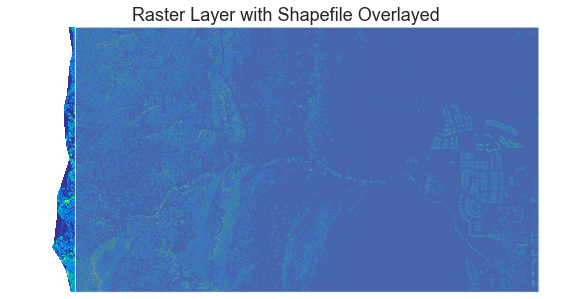
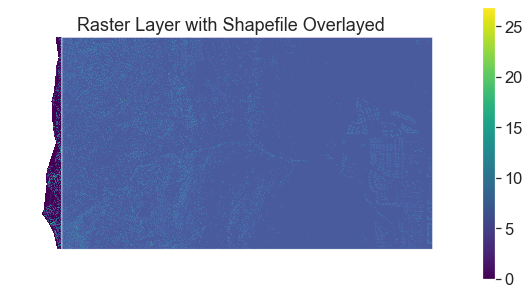
clip lesson with xarray

diff --git a/_posts/courses/intermediate-eds-textbook/03-intro-raster/raster-processing-python/2018-02-05-raster04-crop-raster.md b/_posts/courses/intermediate-eds-textbook/03-intro-raster/raster-processing-python/2018-02-05-raster04-crop-raster.md
@@ -4,7 +4,7 @@ title: "Crop Spatial Raster Data With a Shapefile in Python"
 excerpt: "Sometimes a raster dataset covers a larger spatial extent than is needed for a particular purpose. In these cases, you can crop a raster file to a smaller extent. Learn how to crop raster data using a shapefile and export it as a new raster in open source Python"
 authors: ['Leah Wasser']
 dateCreated: 2018-02-05
-modified: 2020-09-11
+modified: 2020-11-05
 category: [courses]
 class-lesson: ['raster-processing-python']
 permalink: /courses/use-data-open-source-python/intro-raster-data-python/raster-data-processing/crop-raster-data-with-shapefile-in-python/
@@ -68,12 +68,11 @@ import matplotlib.pyplot as plt
 import seaborn as sns
 import numpy as np
 from shapely.geometry import mapping
+import rioxarray as rxr
+import xarray as xr
 import geopandas as gpd
-import rasterio as rio
-from rasterio.plot import plotting_extent
-from rasterio.mask import mask
+
 import earthpy as et
-import earthpy.spatial as es
 import earthpy.plot as ep
 
 # Prettier plotting with seaborn
@@ -81,12 +80,14 @@ sns.set(font_scale=1.5)
 
 # Get data and set working directory
 et.data.get_data("colorado-flood")
-os.chdir(os.path.join(et.io.HOME, 'earth-analytics'))
+os.chdir(os.path.join(et.io.HOME,
+                      'earth-analytics',
+                      'data'))
 ```
 
 {:.output}
-    /opt/conda/lib/python3.8/site-packages/rasterio/plot.py:260: SyntaxWarning: "is" with a literal. Did you mean "=="?
-      if len(arr.shape) is 2:
+    Downloading from https://ndownloader.figshare.com/files/16371473
+    Extracted output to /root/earth-analytics/data/colorado-flood/.
 
 
 
@@ -95,6 +96,18 @@ os.chdir(os.path.join(et.io.HOME, 'earth-analytics'))
 
 In the previous lessons, you worked with a raster layer that looked like the one below. Notice that the data have an uneven edge on the left hand side. Let's pretend this edge is outside of your study area and you'd like to remove it or clip it off using your study area extent. You can do this using the `crop_image()` function in `earthpy.spatial`. 
 
+{:.input}
+```python
+lidar_chm_im = rxr.open_rasterio("colorado-flood/spatial/boulder-leehill-rd/outputs/lidar_chm.tif",
+                                 masked=True).squeeze()
+
+f, ax = plt.subplots(figsize=(10, 5))
+lidar_chm_im.plot.imshow()
+ax.set(title="Lidar Canopy Height Model (CHM)")
+
+ax.set_axis_off()
+plt.show()
+```
 
 {:.output}
 {:.display_data}
@@ -118,8 +131,10 @@ from geopandas. You will learn more about vector data in Python in a few weeks.
 
 {:.input}
 ```python
-aoi = os.path.join("data", "colorado-flood", "spatial",
-                   "boulder-leehill-rd", "clip-extent.shp")
+aoi = os.path.join("colorado-flood",
+                   "spatial",
+                   "boulder-leehill-rd",
+                   "clip-extent.shp")
 
 # Open crop extent (your study area extent boundary)
 crop_extent = gpd.read_file(aoi)
@@ -132,7 +147,7 @@ they will need to be in the same CRS.
 {:.input}
 ```python
 print('crop extent crs: ', crop_extent.crs)
-print('lidar crs: ', lidar_chm.crs)
+print('lidar crs: ', lidar_chm_im.rio.crs)
 ```
 
 {:.output}
@@ -153,25 +168,15 @@ crop_extent.plot(ax=ax)
 
 ax.set_title("Shapefile Crop Extent",
              fontsize=16)
+plt.show()
 ```
-
-{:.output}
-{:.execute_result}
-
-
-
-    Text(0.5, 1.0, 'Shapefile Crop Extent')
-
-
-
-
 
 {:.output}
 {:.display_data}
 
 <figure>
 
-<img src = "{{ site.url }}/images/courses/intermediate-eds-textbook/03-intro-raster/raster-processing-python/2018-02-05-raster04-crop-raster/2018-02-05-raster04-crop-raster_12_1.png" alt = "Plot of the shapefile that you will use to crop the CHM data.">
+<img src = "{{ site.url }}/images/courses/intermediate-eds-textbook/03-intro-raster/raster-processing-python/2018-02-05-raster04-crop-raster/2018-02-05-raster04-crop-raster_12_0.png" alt = "Plot of the shapefile that you will use to crop the CHM data.">
 <figcaption>Plot of the shapefile that you will use to crop the CHM data.</figcaption>
 
 </figure>
@@ -192,17 +197,15 @@ Now that you have imported the shapefile. You can use the `crop_image` function 
 
 {:.input}
 ```python
-fig, ax = plt.subplots(figsize=(10, 8))
+f, ax = plt.subplots(figsize=(10, 5))
+lidar_chm_im.plot.imshow(ax=ax)
 
-ep.plot_bands(lidar_chm_im, cmap='terrain',
-              extent=plotting_extent(lidar_chm),
-              ax=ax,
-              title="Raster Layer with Shapefile Overlayed",
-              cbar=False)
-
-crop_extent.plot(ax=ax, alpha=.8)
+crop_extent.plot(ax=ax,
+                 alpha=.8)
+ax.set(title="Raster Layer with Shapefile Overlayed")
 
 ax.set_axis_off()
+plt.show()
 ```
 
 {:.output}
@@ -218,44 +221,38 @@ ax.set_axis_off()
 
 
 
+## Clip Raster Data Using RioXarray `.clip`
+
+If you want to crop the data you can use the `rio.clip` function. When you clip
+the data, you can then export it and share it with colleagues. Or use it in 
+another analysis. 
 
 
-## Crop Data Using the `crop_image` Function
+To perform the clip you:
 
-If you want to crop the data you can use the `crop_image` function in `earthpy.spatial`. When you crop the data, you can then export it and share it with colleagues. Or use it in another analysis. IMPORTANT: You do not need to read the data in before cropping! Cropping the data can be your first step.
+1. Open the raster dataset that you wish to crop using xarray or rioxarray.
+2. Open your shapefile as a geopandas object.
+3. Crop the data using the `.clip()` function. 
 
-To perform the crop you:
+`.clip` has several parameters that you can consider including
 
-1. Create a connection to the raster dataset that you wish to crop
-2. Open your shapefile as a geopandas object. This is what EarthPy needs to crop the data to the extent of your vector shapefile.
-3. Crop the data using the `crop_image()` function. 
+* `drop = True` : The default. setting it will drop all pixels outside of the clip extent
+* `invert = False` : The default. If set to true it will clip all data INSIDE of the clip extent
+* `crs` : if your shapefile is in a different CRS than the raster data, pass the CRS to ensure the data are clipped correctly. 
 
-Without EarthPy, you would have to perform this with a Geojson object. Geojson is a format that is worth becoming familiar with. It's a text, structured format that is used in many online applications. We will discuss it in  more detail later in the class. For now, have a look at the output below. 
-
-{:.input}
-```python
-lidar_chm_path = os.path.join("data", "colorado-flood", "spatial",
-                              "boulder-leehill-rd", "outputs", "lidar_chm.tif")
-
-with rio.open(lidar_chm_path) as lidar_chm:
-    lidar_chm_crop, lidar_chm_crop_meta = es.crop_image(lidar_chm,crop_extent)
-
-lidar_chm_crop_affine = lidar_chm_crop_meta["transform"]
-
-# Create spatial plotting extent for the cropped layer
-lidar_chm_extent = plotting_extent(lidar_chm_crop[0], lidar_chm_crop_affine)
-```
-
-Finally, plot the cropped data. Does it look correct?
+Below you clip the data to the extent of the AOI geodataframe imported above. 
+The data are then plotted.
 
 {:.input}
 ```python
-# Plot your data
-ep.plot_bands(lidar_chm_crop[0],
-              extent=lidar_chm_extent,
-              cmap='Greys',
-              title="Cropped Raster Dataset",
-              scale=False)
+lidar_clipped = lidar_chm_im.rio.clip(crop_extent.geometry.apply(mapping),
+                                      # This is needed if your GDF is in a diff CRS than the raster data
+                                      crop_extent.crs)
+
+f, ax = plt.subplots(figsize=(10, 4))
+lidar_clipped.plot(ax=ax)
+ax.set(title="Raster Layer Cropped to Geodataframe Extent")
+ax.set_axis_off()
 plt.show()
 ```
 
@@ -264,7 +261,7 @@ plt.show()
 
 <figure>
 
-<img src = "{{ site.url }}/images/courses/intermediate-eds-textbook/03-intro-raster/raster-processing-python/2018-02-05-raster04-crop-raster/2018-02-05-raster04-crop-raster_20_0.png" alt = "Final cropped canopy height model plot.">
+<img src = "{{ site.url }}/images/courses/intermediate-eds-textbook/03-intro-raster/raster-processing-python/2018-02-05-raster04-crop-raster/2018-02-05-raster04-crop-raster_16_0.png" alt = "Final cropped canopy height model plot.">
 <figcaption>Final cropped canopy height model plot.</figcaption>
 
 </figure>
@@ -272,52 +269,64 @@ plt.show()
 
 
 
+
+
+
+
+
+
+
+
 <div class="notice--info" markdown="1">
 ## OPTIONAL -- Export Newly Cropped Raster
 
-Once you have cropped your data, you may want to export it. 
-In the subtract rasters lesson you exported a raster that had the same shape and transformation information as the parent rasters. However in this case, you have cropped your data. You will have to update several things to ensure your data export properly:
+Once you have cropped your data, you may want to export it to a new geotiff file,
+just like you did in previous lessons. 
 
-1. The width and height of the raster: You can get this information from the **shape** of the cropped numpy array and
-2. The transformation information of the affine object. The `crop_image()` function provides this inside the metadata object it returns!
-3. Finally you may want to update the `nodata` value.
+You can so this using rioxarray too!
 
-In this case you don't have any `nodata` values in your raster. However you may have them in a future raster!
 </div>
 
 {:.input}
 ```python
-# Update with the new cropped affine info and the new width and height
-lidar_chm_meta.update({'transform': lidar_chm_crop_affine,
-                       'height': lidar_chm_crop.shape[1],
-                       'width': lidar_chm_crop.shape[2],
-                       'nodata': -999.99})
-lidar_chm_meta
+path_to_tif_file = os.path.join("colorado-flood",
+                                "spatial",
+                                "outputs",
+                                "lidar_chm_cropped.tif")
+
+# Write the data to a new geotiff file
+lidar_clipped.rio.to_raster(path_to_tif_file)
 ```
-
-{:.output}
-{:.execute_result}
-
-
-
-    {'driver': 'GTiff', 'dtype': 'float64', 'nodata': -999.99, 'width': 3490, 'height': 2000, 'count': 1, 'crs': CRS.from_epsg(32613), 'transform': Affine(1.0, 0.0, 472510.0,
-           0.0, -1.0, 4436000.0), 'tiled': False, 'compress': 'lzw', 'interleave': 'band'}
-
-
-
-
-
-Once you have updated the metadata you can write our your new raster. 
 
 {:.input}
 ```python
-# Write data
-path_out = os.path.join("data", "colorado-flood", "spatial", 
-                        "outputs", "lidar_chm_cropped.tif")
+# Open the data you wrote out above
+clipped_chm = rxr.open_rasterio(path_to_tif_file)
 
-with rio.open(path_out, 'w', **lidar_chm_meta) as ff:
-    ff.write(lidar_chm_crop[0], 1)
+# Customize your plot as you wish!
+f, ax = plt.subplots(figsize=(10, 4))
+clipped_chm.plot(ax=ax,
+                 cmap='Greys')
+ax.set(title="Final Clipped CHM")
+ax.set_axis_off()
+plt.show()
 ```
+
+{:.output}
+{:.display_data}
+
+<figure>
+
+<img src = "{{ site.url }}/images/courses/intermediate-eds-textbook/03-intro-raster/raster-processing-python/2018-02-05-raster04-crop-raster/2018-02-05-raster04-crop-raster_25_0.png">
+
+</figure>
+
+
+
+
+
+
+
 
 <div class="notice--warning" markdown="1">
 
